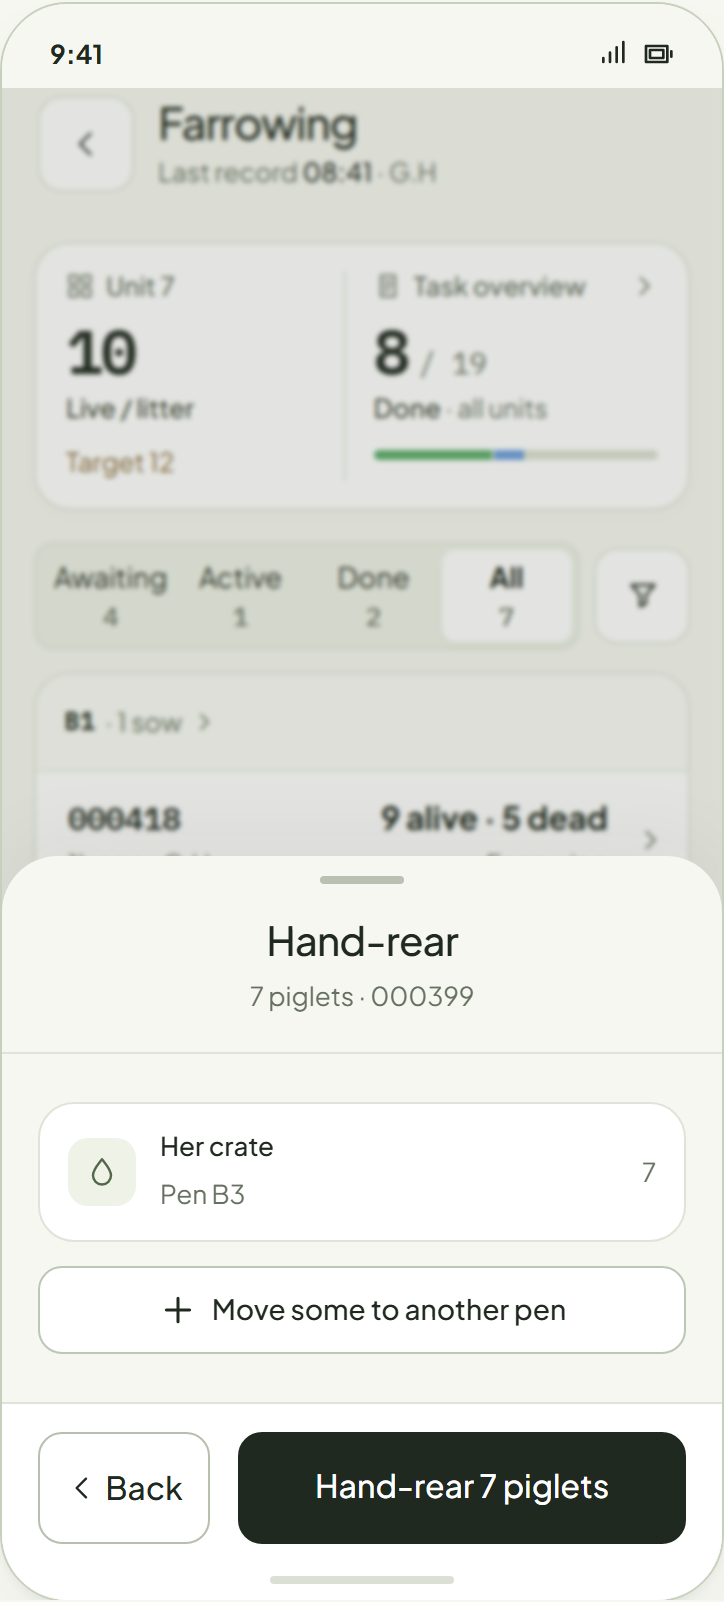
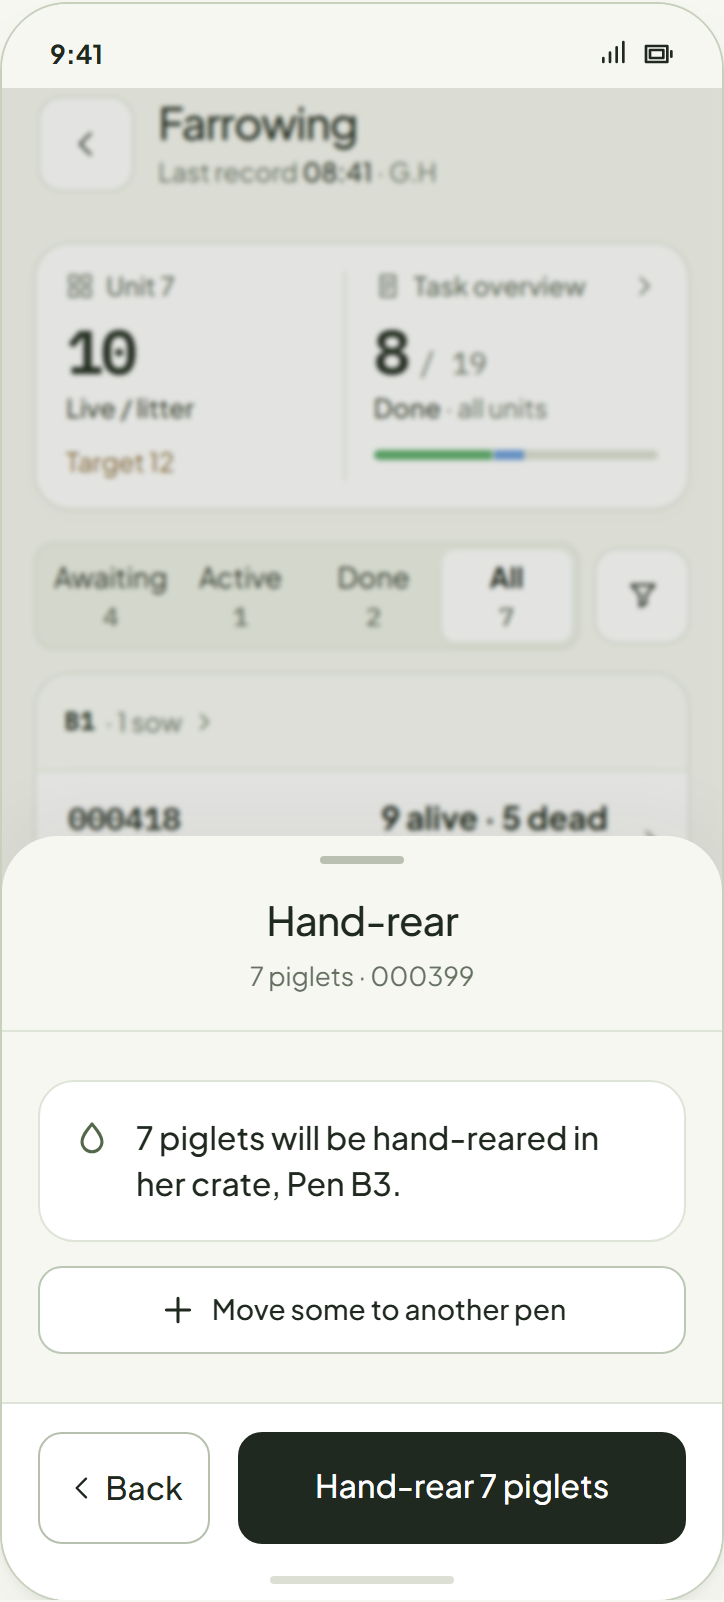
Hand-rear says the default in one line (hand-reared in her crate) with Move some as the only option; a scan read lands flush at the top of the ID box

diff --git a/ux/system/farrowing-astra-concept.js b/ux/system/farrowing-astra-concept.js
@@ -920,15 +920,18 @@ function allocSentList(s){
  return `<section class="allocate-sent">${SentriUI.heading({title:'Sent',kind:'group',level:4})}${SentriUI.panel(s.allocSent.map(x=>SentriUI.row({variant:'animal',code:x.tag,description:[rowText.pen(x.pen),x.ids.length?'ID '+x.ids.join(', '):''].filter(Boolean).join(' · '),right:{kind:'state',figure:`${x.n} piglet${x.n===1?'':'s'}`,word:'',level:'settled'}})).join(''),{className:'st-row-group allocate-sent-rows'})}</section>`;
 }
 // Hand-rear (owner, 2026-11-03: the rearing pen folds in here; the drawer must not ask the question again): a drawer on the tint whose
-// white card is the answer itself, where the piglets are: her crate with what is left, then each pen moved to with its own count. Move
-// some to another pen sits under the card as a quiet button; it goes once none are left. Back returns to the question, nothing recorded.
+// white card is the answer itself: at first one line, they are hand-reared in her crate; once some move, where each lot is. Move some
+// to another pen sits under the card as a quiet button; it goes once none are left. Back returns to the question, nothing recorded.
 const handCrate=s=>s.alive-sum((s.handDraft?.moves||[]).map(m=>m.n));
 function allocDonePage(s){
  const n=s.alive,pigs=`${n} piglet${n===1?'':'s'}`,c=roomContext(s),moves=s.handDraft?.moves||[],crate=handCrate(s);
- const crateRow=SentriUI.row({variant:'navigation',icon:icon('drop'),title:'Her crate',description:rowText.pen(s.pen),trailing:{text:String(crate)}});
+ // Nothing moved: hand-rearing in her crate is the default, so the drawer only says so (owner, 2026-11-03: nothing to tap). Once some move,
+ // the card lists where they are: what stays in her crate, then each pen with its own count.
+ const note=`<div class="hand-note">${icon('drop')}<p>${pigs} will be hand-reared in her crate, ${rowText.pen(s.pen)}.</p></div>`;
+ const crateRow=SentriUI.row({variant:'navigation',icon:icon('drop'),title:crate?`${crate} ${crate===1?'stays':'stay'} in her crate`:'None stay in her crate',description:rowText.pen(s.pen)});
  const moveRows=moves.map((m,i)=>`<div class="hand-move">${farmStepper({variant:'row',label:`${rowText.pen(m.pen)} · ${farmUnit(c,m.unit).name}`,value:m.n,min:0,max:m.n+crate,action:'handCount',reserveHint:false},i+',')}</div>`).join('');
  const add=crate?SentriUI.button({register:'secondary',label:'Move some to another pen',icon:icon('plus'),action:'handAddPen',className:'hand-add'}):'';
- return SentriUI.sheet({variant:'drawer',surface:'menu',title:'Hand-rear',line:{text:[{text:pigs},{text:' · '+s.tag}]},body:SentriUI.rowGroup(crateRow+moveRows)+add,bodyClass:'alloc-done-body',footer:footer(SentriUI.backButton({action:'featureBack'}),btn('allocHand',`Hand-rear ${pigs}`,'button primary')),size:'medium',sizing:'content',label:'Hand-rear',scrim:{action:'featureBack',label:'Back to Allocate piglets'}});
+ return SentriUI.sheet({variant:'drawer',surface:'menu',title:'Hand-rear',line:{text:[{text:pigs},{text:' · '+s.tag}]},body:(moves.length?SentriUI.rowGroup(crateRow+moveRows):SentriUI.panel(note,{className:'hand-note-card'}))+add,bodyClass:'alloc-done-body',footer:footer(SentriUI.backButton({action:'featureBack'}),btn('allocHand',`Hand-rear ${pigs}`,'button primary')),size:'medium',sizing:'content',label:'Hand-rear',scrim:{action:'featureBack',label:'Back to Allocate piglets'}});
 }
 // Move to a pen is Move's destination picker (features/move: her unit pinned first, her own crate dimmed, search reaches any pen and the
 // scan reads a pen's plate, a tap picks and closes). A pen already chosen is dimmed too.
@@ -1255,7 +1258,7 @@ function farrowingBackground(s){
  return '<div class="page-background" inert aria-hidden="true">'+farrowingRecordSurface({...s,view:parent})+'</div>';
 }
 function render(i,focusKey){const fosterTop=document.querySelector(`[data-card="${i}"] .foster-pick .sheet-body`)?.scrollTop||0;renderCard(i,focusKey);const list=document.querySelector(`[data-card="${i}"] .foster-pick .sheet-body`);if(list)list.scrollTop=fosterTop;}   // the list keeps its place under the count drawer
-function renderCard(i,focusKey){const s=states[i],context=roomContext(s);persistDraft(s);if(s.view==='profile'&&s.actionsEntry)s.actionReturn=false; /* back at the actions drawer: the pending return is spent, or the drawer's own Back would reopen it */if(s.actionReturn&&['count','locked'].includes(s.view)){s.actionReturn=false;if(!s.ended){s.view='profile';s.actionsEntry=true;}}if(s.view==='room'&&context.returnToTaskReview){s.view=context.returnToTaskReview;context.returnToTaskReview=false;}const root=document.querySelector(`[data-card="${i}"]`);clearTimeout(reminderTimers[i]);if(s.view!=='count')s.pointers=false;if(s.pointers)reminderTimers[i]=setTimeout(()=>{if(states[i]!==s||s.view!=='count')return;s.pointers=false;const status=root.querySelector('.receipt');if(status)status.innerHTML=receipt(s);},4000);const active=root.contains(document.activeElement)?document.activeElement:null,field=active?.dataset?.field,fieldValue=active?.value;if(root.dataset.view==='roomOverview')context.overviewScroll=root.querySelector('.phone > .sheet > .sheet-body')?.scrollTop||0;const previousPopup=root.dataset.popup||'';const popupChanged=previousPopup!==(s.popup?.kind||'');root.dataset.popup=s.popup?.kind||'';const sameView=root.dataset.view===s.view;const scroll=sameView?root.querySelector('.phone > .sheet > .sheet-body')?.scrollTop||0:0;root.dataset.view=s.view;root.querySelector('.phone').innerHTML=`<div class="room-surface"${!['room','roomHome','roomSearch','roomScan'].includes(s.view)?' inert':''}>${room(s)}</div>`+farrowingBackground(s)+farrowingRecordSurface(s)+roomOverlay(s)+capabilitySurface(s)+(s.view==='history'?history(s):s.view==='profile'?profile(s):s.view==='deathBreakdown'?deathBreakdown(s):s.view==='litter'?litter(s):'')+popup(s);placeTaskSyncBadge(root);connectSowDetail(root,s);root.querySelectorAll('.st-filter-chips-track').forEach(tr=>{const b=tr.querySelector('[aria-checked="true"]');if(b&&b.offsetLeft+b.offsetWidth>tr.clientWidth)tr.scrollLeft=b.offsetLeft+b.offsetWidth-tr.clientWidth+parseFloat(getComputedStyle(tr).paddingRight);});   /* the ticked chip in view (the track scrolls sideways) */root.querySelectorAll('.foster-id-scroll [data-read]').forEach(r=>{const sc=r.parentElement;sc.scrollTop=r.offsetTop-sc.offsetTop;});   /* a read piglet at the top of the box */root.querySelectorAll('.foster-id-scroll').forEach(fosterIdMore);if(root.querySelector('.phone > .sheet > .sheet-body'))root.querySelector('.phone > .sheet > .sheet-body').scrollTop=s.view==='roomOverview'?(context.overviewScroll||0):scroll;if(s.popup&&s.popup.kind!=='born'){root.querySelectorAll('.phone > :not(.dialog-backdrop)').forEach(e=>e.setAttribute('inert',''));root.querySelector('.record-page')?.setAttribute('inert','');}if(!sameView){root.querySelector('.phone > .sheet,.phone > .record-page')?.focus({preventScroll:true,focusVisible:false});}if(popupChanged&&s.popup)root.querySelector('.dialog input,.dialog button')?.focus({preventScroll:true,focusVisible:false});else if(popupChanged&&previousPopup==='undo')root.querySelector('[data-action="undoAsk"]')?.focus({preventScroll:true,focusVisible:false});if(field){[...root.querySelectorAll('.phone > .sheet [data-field]')].find(x=>x.dataset.field===field&&(x.type!=='radio'||x.value===fieldValue))?.focus({preventScroll:true,focusVisible:false});}if(focusKey){const target=Array.from(root.querySelectorAll('.phone > .sheet [data-action]')).find(e=>e.dataset.action===focusKey.a&&e.dataset.value===focusKey.v);const focusTarget=target&&!target.disabled?target:target?.closest('.st-stepper')?.querySelector('button:not(:disabled)')||root.querySelector('.phone > .sheet,.phone > .record-page');focusTarget?.focus({preventScroll:true,focusVisible:false});}SentriUI.liveFill(root,{delay:0});if(popupChanged&&previousPopup==='photo'&&!s.popup){const origin=s.photoOrigin;root.querySelector(`[data-action="${origin?.action||'addPhoto'}"][data-value="${origin?.index??'photos'}"]`)?.focus();}roomAfterRender(i);if(i===0&&window.AtlasBare)AtlasBare.watch(()=>atlasScreen(s,context)); }
+function renderCard(i,focusKey){const s=states[i],context=roomContext(s);persistDraft(s);if(s.view==='profile'&&s.actionsEntry)s.actionReturn=false; /* back at the actions drawer: the pending return is spent, or the drawer's own Back would reopen it */if(s.actionReturn&&['count','locked'].includes(s.view)){s.actionReturn=false;if(!s.ended){s.view='profile';s.actionsEntry=true;}}if(s.view==='room'&&context.returnToTaskReview){s.view=context.returnToTaskReview;context.returnToTaskReview=false;}const root=document.querySelector(`[data-card="${i}"]`);clearTimeout(reminderTimers[i]);if(s.view!=='count')s.pointers=false;if(s.pointers)reminderTimers[i]=setTimeout(()=>{if(states[i]!==s||s.view!=='count')return;s.pointers=false;const status=root.querySelector('.receipt');if(status)status.innerHTML=receipt(s);},4000);const active=root.contains(document.activeElement)?document.activeElement:null,field=active?.dataset?.field,fieldValue=active?.value;if(root.dataset.view==='roomOverview')context.overviewScroll=root.querySelector('.phone > .sheet > .sheet-body')?.scrollTop||0;const previousPopup=root.dataset.popup||'';const popupChanged=previousPopup!==(s.popup?.kind||'');root.dataset.popup=s.popup?.kind||'';const sameView=root.dataset.view===s.view;const scroll=sameView?root.querySelector('.phone > .sheet > .sheet-body')?.scrollTop||0:0;root.dataset.view=s.view;root.querySelector('.phone').innerHTML=`<div class="room-surface"${!['room','roomHome','roomSearch','roomScan'].includes(s.view)?' inert':''}>${room(s)}</div>`+farrowingBackground(s)+farrowingRecordSurface(s)+roomOverlay(s)+capabilitySurface(s)+(s.view==='history'?history(s):s.view==='profile'?profile(s):s.view==='deathBreakdown'?deathBreakdown(s):s.view==='litter'?litter(s):'')+popup(s);placeTaskSyncBadge(root);connectSowDetail(root,s);root.querySelectorAll('.st-filter-chips-track').forEach(tr=>{const b=tr.querySelector('[aria-checked="true"]');if(b&&b.offsetLeft+b.offsetWidth>tr.clientWidth)tr.scrollLeft=b.offsetLeft+b.offsetWidth-tr.clientWidth+parseFloat(getComputedStyle(tr).paddingRight);});   /* the ticked chip in view (the track scrolls sideways) */root.querySelectorAll('.foster-id-scroll [data-read]').forEach(r=>{const sc=r.parentElement;sc.scrollTop+=r.getBoundingClientRect().top-sc.getBoundingClientRect().top;});   /* a read piglet at the top of the box */root.querySelectorAll('.foster-id-scroll').forEach(fosterIdMore);if(root.querySelector('.phone > .sheet > .sheet-body'))root.querySelector('.phone > .sheet > .sheet-body').scrollTop=s.view==='roomOverview'?(context.overviewScroll||0):scroll;if(s.popup&&s.popup.kind!=='born'){root.querySelectorAll('.phone > :not(.dialog-backdrop)').forEach(e=>e.setAttribute('inert',''));root.querySelector('.record-page')?.setAttribute('inert','');}if(!sameView){root.querySelector('.phone > .sheet,.phone > .record-page')?.focus({preventScroll:true,focusVisible:false});}if(popupChanged&&s.popup)root.querySelector('.dialog input,.dialog button')?.focus({preventScroll:true,focusVisible:false});else if(popupChanged&&previousPopup==='undo')root.querySelector('[data-action="undoAsk"]')?.focus({preventScroll:true,focusVisible:false});if(field){[...root.querySelectorAll('.phone > .sheet [data-field]')].find(x=>x.dataset.field===field&&(x.type!=='radio'||x.value===fieldValue))?.focus({preventScroll:true,focusVisible:false});}if(focusKey){const target=Array.from(root.querySelectorAll('.phone > .sheet [data-action]')).find(e=>e.dataset.action===focusKey.a&&e.dataset.value===focusKey.v);const focusTarget=target&&!target.disabled?target:target?.closest('.st-stepper')?.querySelector('button:not(:disabled)')||root.querySelector('.phone > .sheet,.phone > .record-page');focusTarget?.focus({preventScroll:true,focusVisible:false});}SentriUI.liveFill(root,{delay:0});if(popupChanged&&previousPopup==='photo'&&!s.popup){const origin=s.photoOrigin;root.querySelector(`[data-action="${origin?.action||'addPhoto'}"][data-value="${origin?.index??'photos'}"]`)?.focus();}roomAfterRender(i);if(i===0&&window.AtlasBare)AtlasBare.watch(()=>atlasScreen(s,context)); }
 // Pointer taps keep keyboard focus position without drawing a keyboard-only ring.
 document.addEventListener('pointerdown',()=>document.documentElement.dataset.inputMode='pointer',true);
 document.addEventListener('keydown',()=>delete document.documentElement.dataset.inputMode,true);

diff --git a/ux/design-system/components/bundle.css b/ux/design-system/components/bundle.css
@@ -1667,5 +1667,9 @@ input::placeholder,textarea::placeholder{color:var(--ink-2);opacity:1}
 .farrowing-phone .hand-move{padding:var(--space-4) var(--space-row-x);border-top:var(--border-width) solid var(--rule)}
 .farrowing-phone .hand-move .st-stepper{margin:0}
 .farrowing-phone .alloc-done-body .hand-add{width:100%;margin-top:var(--space-12)}
+/* Hand-rear's default said in one line: her crate's glyph, then the sentence (owner, 2026-11-03: staying is the default, nothing to tap). */
+.farrowing-phone .hand-note{display:flex;align-items:flex-start;gap:var(--space-12)}
+.farrowing-phone .hand-note>svg{flex:none;width:var(--size-20);height:var(--size-20);margin-top:2px;color:var(--row-icon-ink)}
+.farrowing-phone .hand-note p{margin:0;font:500 var(--type-row-title-size)/1.45 var(--font-sans);color:var(--ink)}
 .farrowing-phone .hand-pen-bar{margin-bottom:var(--space-12)}
 .farrowing-phone .hand-pen-bar .st-choice-search{margin:0}
